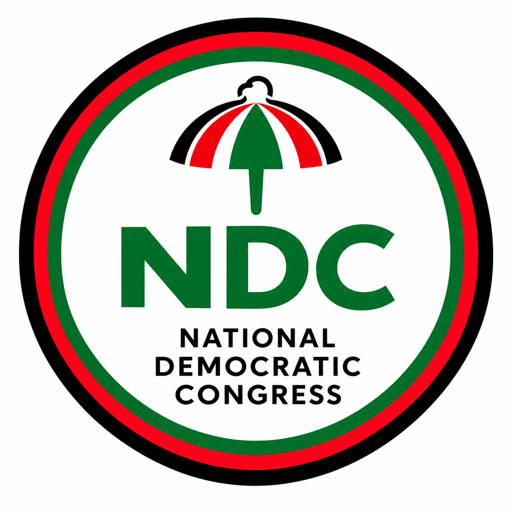
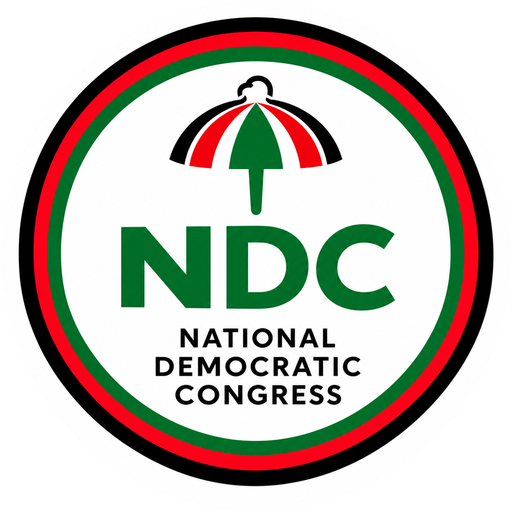
feat(public): use circular NDC emblem in header

diff --git a/src/app/globals.css b/src/app/globals.css
@@ -39,7 +39,7 @@ button, a { -webkit-tap-highlight-color: transparent; }
 .summit-home { color: var(--ink); background: var(--paper); }
 .site-header { min-height: 78px; display:flex; align-items:center; justify-content:space-between; gap:1rem; padding: 1rem clamp(1rem, 5vw, 5rem); border-bottom:1px solid var(--line); background:var(--paper); }
 .brand-lockup { display:flex; align-items:center; gap:.75rem; text-decoration:none; }
-.brand-mark { width:2.8rem; height:2.8rem; display:grid; place-items:center; background:var(--deep-green); color:white; font-size:.68rem; font-weight:800; letter-spacing:.06em; border-left:4px solid var(--red); }
+.brand-emblem { display:block; width:3.5rem; height:3.5rem; flex:none; border-radius:50%; object-fit:contain; background:#fff; }
 .brand-copy { display:flex; flex-direction:column; gap:.12rem; }
 .brand-copy strong { font-size:.95rem; letter-spacing:.035em; }
 .brand-copy small { color:var(--muted); font-size:.68rem; }
@@ -190,7 +190,7 @@ button, .button { min-width:44px; }
 }
 @media (max-width: 680px) {
   .site-header { min-height:68px; padding: .8rem 1rem; }
-  .brand-mark { width:2.45rem; height:2.45rem; }
+  .brand-emblem { width:2.9rem; height:2.9rem; }
   .brand-copy strong { font-size:.84rem; }
   .brand-copy small { max-width:11rem; font-size:.61rem; }
   .header-actions { gap:.7rem; }

diff --git a/src/app/page.tsx b/src/app/page.tsx
@@ -16,7 +16,14 @@ export default function HomePage() {
     <main className="summit-home min-h-screen pb-24 lg:pb-0">
       <header className="site-header">
         <Link href="/" className="brand-lockup" aria-label="TEIN-UCC Women Empowerment Summit home">
-          <span className="brand-mark" aria-hidden="true">TEIN</span>
+          <Image
+            src="/ndc-emblem.png"
+            alt=""
+            aria-hidden="true"
+            width={64}
+            height={64}
+            className="brand-emblem"
+          />
           <span className="brand-copy"><strong>TEIN-UCC</strong><small>Office of the Women&apos;s Commissioner</small></span>
         </Link>
         <nav className="header-actions" aria-label="Main navigation">
